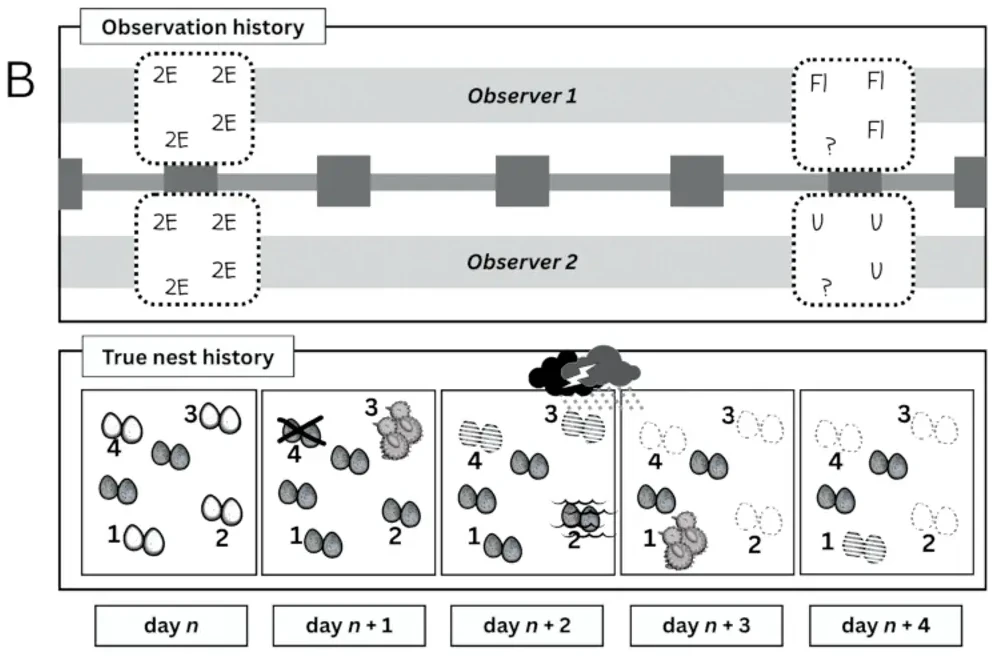
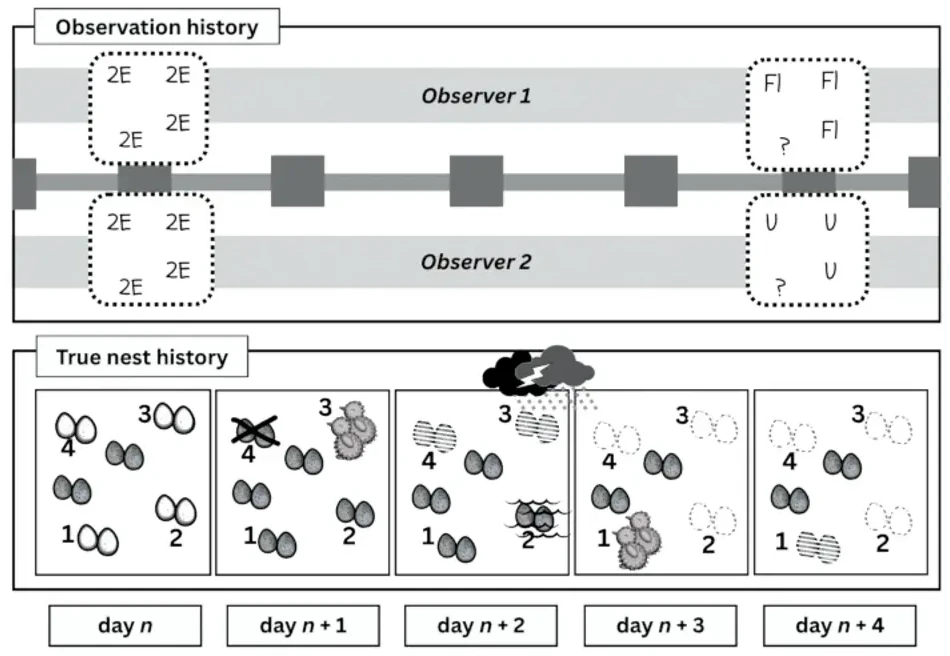
updated sim model text

diff --git a/_portfolio/nest_sim.md b/_portfolio/nest_sim.md
@@ -10,9 +10,9 @@ excerpt: “Virtual ecologist simulation of nest observation process. Used to ex
 ---
 
 <!-- <figure style="width: 700px;"> -->
-<figure style="float: right; max-width: 500px;">
-    <img style="margin: 15px;" src="/assets/images/submodels1.webp" alt="depiction of the two submodels">
-    <figcaption style="font-style: italic; margin: 15px;"> Visualization of the two submodels, with a true underlying nest history generated by the nest creation submodel, and an observation history generated by the observer submodel.</figcaption>
+<figure style="float: right; max-width: 450px;">
+    <img src="/assets/images/submodels1.webp" alt="depiction of the two submodels">
+    <figcaption> Visualization of the two submodels, with a true underlying nest history generated by the nest creation submodel, and an observation history generated by the observer submodel. Discovered nests (white) fail or hatch, and evidence decays as days pass. </figcaption>
 </figure>
 
 ### The virtual ecologist model has two submodels:
@@ -23,7 +23,7 @@ excerpt: “Virtual ecologist simulation of nest observation process. Used to ex
 
 2. The observer submodel.
 
-    Ability to correctly classify nest fate decreases over time following a simple exponential decay function. 
+    Ability to correctly classify nest fate decreases over time following a simple exponential decay function. Storms increase the rate of evidence decay, making it more likely that observer will have nests with uncertain fate. Observer either marks nest fate "unknown" or "flooded", which means nests are either excluded or some fraction are misclassified because they did not truly flood.
 
 
 <!-- <figure style="width: 700px;"> -->
@@ -32,12 +32,14 @@ excerpt: “Virtual ecologist simulation of nest observation process. Used to ex
 <!-- </figure> -->
 ## Output from the Python simulation:
 
+Sample simulation with only 15 nests (true simulation had 250 or 500).
+
 ### Parameter values:
 
         stormFate stormUnk  pMortFl  MCtype  propMC  propUnk stormFrq stormDur decayRate  obsFreq hatchTime numNests probSurv discProb  brDays 
           "TRUE"   "TRUE"   "0.75"  "none"     "0"      "0"      "2"      "1"   "0.08"      "7"      "20"    "250"   "0.96"    "0.8"    "180" 
 
-### Nest creation submodel:
+### Generate storm days and survey days for observer:
 
         >> storm days =  59 63
         >> survey days, w/o storms:
@@ -45,35 +47,42 @@ excerpt: “Virtual ecologist simulation of nest observation process. Used to ex
         >> survey intervals:      
             [0 7  7  7  7  7  7  7  7  9  7  7  7  7   7   7   7] ; sum(surveyInts>obsFreq)=1
 
+### Nest creation submodel:
+
+For each nest:
+
         >> init dates:         
-          [  25 8 47 32 43 32 61 73 43 30 26 46 43 58 11 52 11 36 27 20]
+            [ 25  8 47 32 43 32 61 73 43 30 26 46 43 58 11 52 11 36 27 20 ]
         >> survival in days:   
-            [20 20 3 14 20 20 20 16 20 20 7 20 20 20 20 20 20 14 20 13]
+            [ 20 20  3 14 20 20 20 16 20 20  7 20 20 20 20 20 20 14 20 13 ]
 
         >> which storm?             
-            [ 0 0 0 0 59 0 63 0 59 0 0 59 59 59 0 59 0 0 0 0]
+            [  0  0  0  0 59  0 63  0 59  0  0 59 59 59  0 59  0  0  0  0 ]
         >> flooded?      
-            [ 0 0 0 0 1 0 1 0 1 0 0 1 1 0 0 1 0 0 0 0] 
+            [  0  0  0  0  1  0  1  0  1  0  0  1  1  0  0  1  0  0  0  0 ] 
+
         >> end dates (w/storms):   
-            [45 28 50 46 59 52 63 89 59 50 33 59 59 78 31 59 31 50 47 33]
+            [ 45 28 50 46 59 52 63 89 59 50 33 59 59 78 31 59 31 50 47 33 ]
 
         >> true final nest fate:  
-            [ 0 0 1 1 2 0 2 1 2 0 1 2 2 0 0 2 0 1 0 1]
+            [  0  0  1  1  2  0  2  1  2  0  1  2  2  0  0  2  0  1  0  1 ]
 
 <figure style="width: 400px;">
-    <img style="margin: 15px;" src="/assets/images/init_dates.webp" alt="sampled nest initiation dates for 100 runs of model compared to true initiation dates. the sampled distibutrions follow the true distribution.">
-    <figcaption style="font-style: italic; margin: 15px;"> Sampled nest initiation dates for 100 runs of model (pink) compared to true initiation dates (blue).</figcaption>
+    <img src="/assets/images/init_dates.webp" alt="sampled nest initiation dates for 100 runs of model compared to true initiation dates. the sampled distibutrions follow the true distribution.">
+    <figcaption> Sampled nest initiation dates for 100 runs of model (pink) compared to true initiation dates (blue).</figcaption>
 </figure>
 
 ### Observer submodel:
 
+For each nest:
+
         >> surveys til discovery:
-            [0 0 0 3 0 0 0 1 1 0 0 0 0 1 0 2 0 2 0 0]
+            [ 0  0  0  3  0  0  0  1  1  0  0  0  0  1  0  2  0  2  0  0 ]
         >> total num surveys: 
-            [3 3 0 2 3 3 0 3 3 2 1 2 3 0 3 1 3 2 3 2]
+            [ 3  3  0  2  3  3  0  3  3  2  1  2  3  0  3  1  3  2  3  2 ]
 
         > nest discovered? (svysTilDiscovery < num_svy):
-            [1 1 0 0 1 1 0 1 1 1 1 1 1 0 1 0 1 0 1 1]
+            [ 1  1  0  0  1  1  0  1  1  1  1  1  1  0  1  0  1  0  1  1 ]
 
         >> first found: 
             [ 29  8  0  0 43  36 0 80 50 36 29 50 43  0 15  0 15  0 29 22]
@@ -82,14 +91,14 @@ excerpt: “Virtual ecologist simulation of nest observation process. Used to ex
         >> last checked:
             [ 50 29  0  0 66  57 0 94 66 50 36 66 66  0 36  0 36  0 50 36]
 
-        >> np.where(fateProb<fateCuesPresent):
-            [2  3  4  5  7 11 15 16 17 18 ]
+        >> nests with correct assigned fate (np.where(fateProb<fateCuesPresent)):
+            [ 2  3  4  5  7 11 15 16 17 18 ]
 
-        >> np.where(stormFinalInt):    
-            [4  6  8  11  12  13  15]
+        >> nests with storm in final interval (np.where(stormFinalInt)):    
+            [ 4  6  8  11  12  13  15 ]
 
         >> assigned fate:     
-            [7 7 1 1 2 0 2 1 2 7 7 2 2 2 7 2 0 1 0 7]
+            [ 7  7  1  1  2  0  2  1  2  7  7  2  2  2  7  2  0  1  0  7 ]
 
 
 {% if project.github_repo %}
